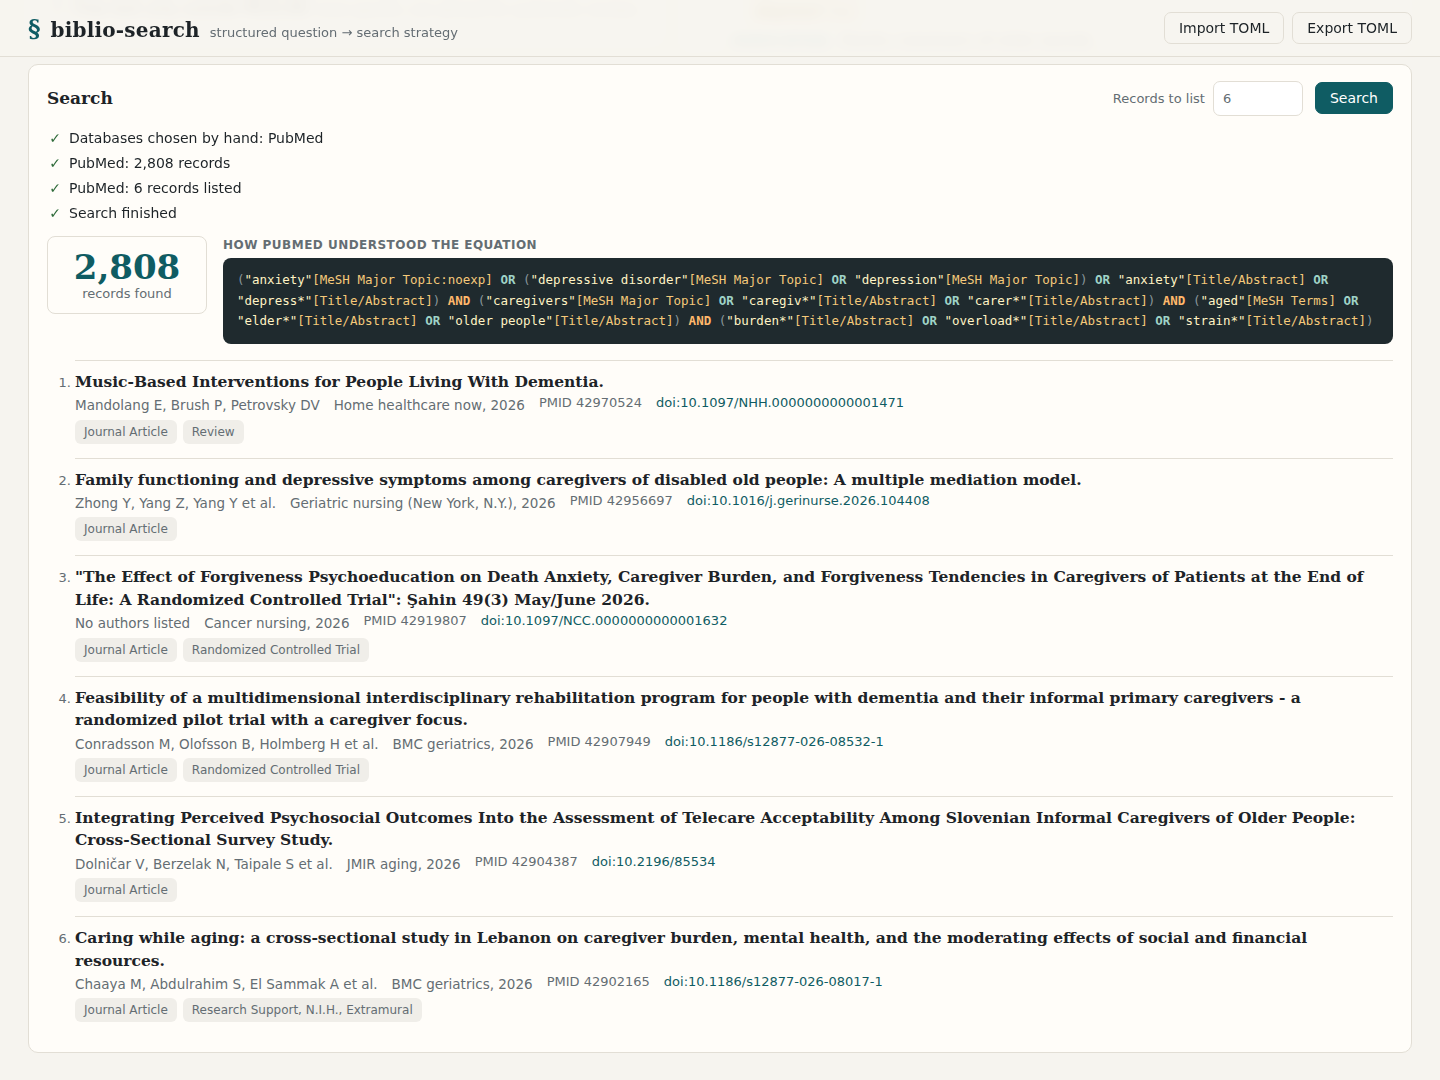
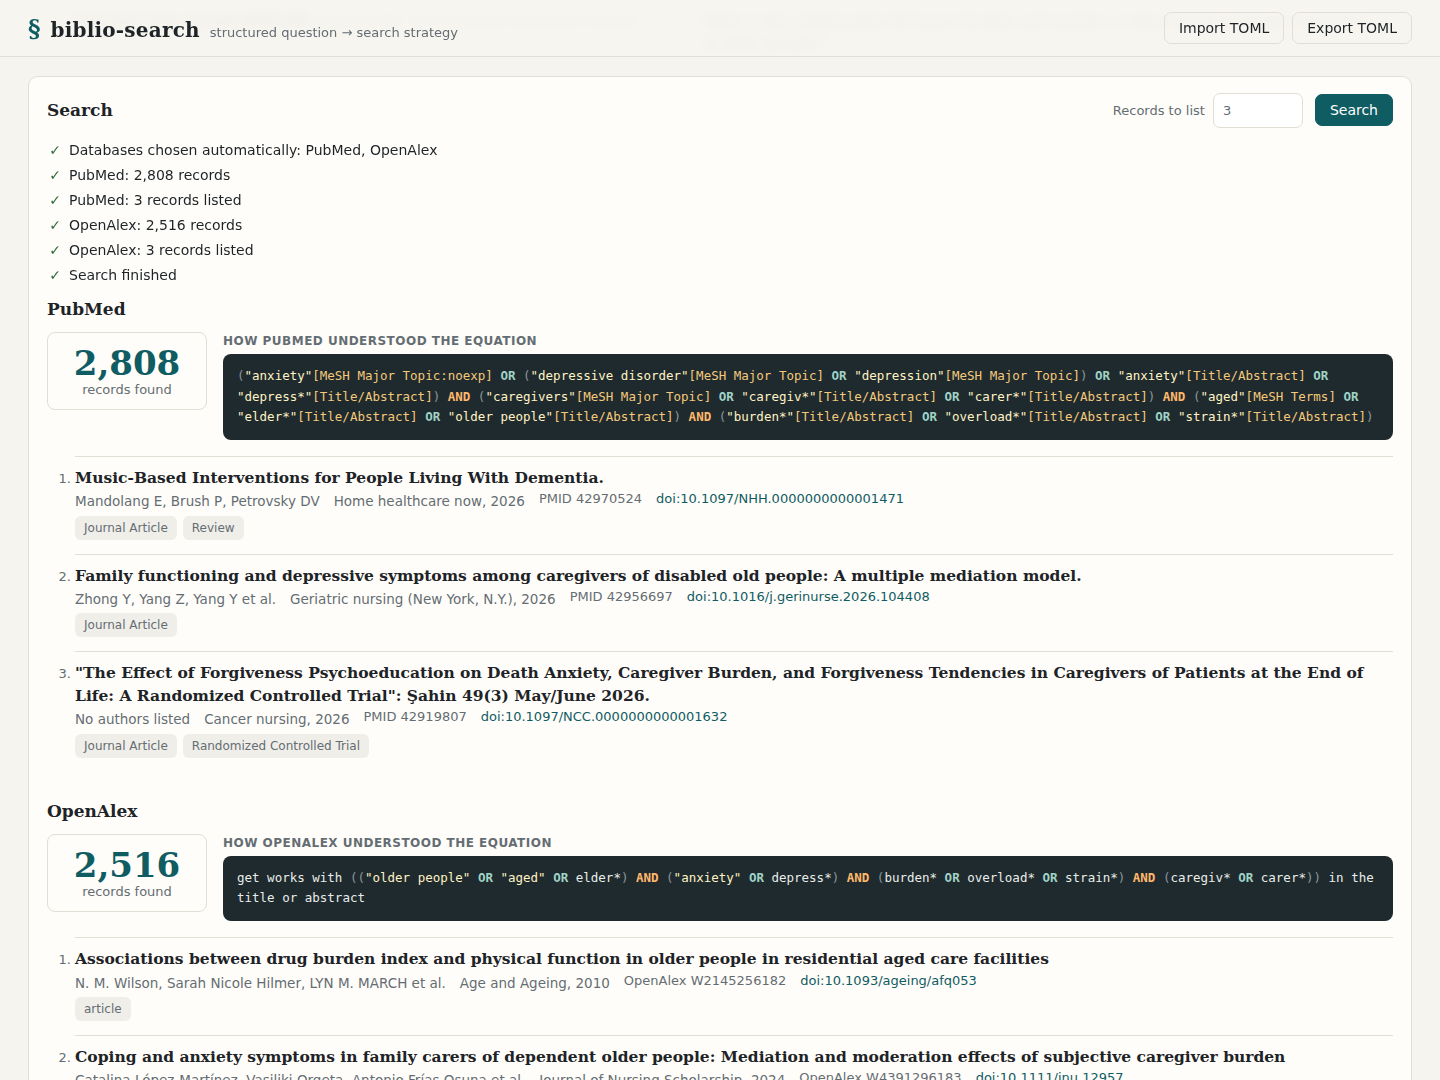
docs: openalex search, any-discipline description and new screenshots

Changed region(s): [[0.0312, 0.0611, 0.9688, 1.0], [0.7812, 0.0611, 0.875, 0.1222], [0.9062, 0.0611, 0.9688, 0.1222]]

diff --git a/src/biblio_search/__init__.py b/src/biblio_search/__init__.py
@@ -1,3 +1,3 @@
-"""biblio-search: structured clinical questions turned into PubMed search strategies."""
+"""biblio-search: research questions turned into search strategies for PubMed and OpenAlex."""
 
 __version__ = "0.5.0"

diff --git a/README.md b/README.md
@@ -1,8 +1,10 @@
 # biblio-search
 
-Turn a structured clinical question into a rigorous, reproducible PubMed search, and run it.
+Turn a research question from any discipline into a rigorous, reproducible search strategy,
+and run it in PubMed and OpenAlex.
 
-biblio-search models the bibliographic search method taught to health-science students:
+biblio-search models the bibliographic search method taught to health-science students, and
+extends it to any field:
 decompose the question, map every concept to controlled vocabulary and free text, tag each
 term with the right field, and assemble everything into a single boolean equation whose
 sensitivity and specificity you can tune on purpose instead of by trial and error.
@@ -11,7 +13,7 @@ Everything happens in a local web page: write the question, watch the equation, 
 grid and the chosen databases update as you type, check the headings against MeSH and run the
 search with live progress. The same features are available from the command line.
 
-![Writing a question: the PubMed equation, the MeSH check and Del Pino's logic grid update as you type](docs/screenshots/strategy.png)
+![Writing a question: the PubMed and OpenAlex equations and Del Pino's logic grid update as you type](docs/screenshots/strategy.png)
 
 ## What problem it solves
 
@@ -51,9 +53,10 @@ University of Jaén) in *"Cómo aprender (y enseñar) a realizar búsquedas en C
 7. **Tune sensitivity and specificity.** Repeat headings as free text to catch records not
    yet indexed, or limit free text to non-MEDLINE records with `NOT MEDLINE[sb]` for a more
    specific search.
-8. **Run it and read what the database understood.** biblio-search sends the equation to
-   PubMed through NCBI E-utilities and shows the record count, PubMed's own translation of
-   the query, any term it did not recognise and the first records to screen.
+8. **Run it and read what the database understood.** biblio-search sends each database its
+   own equation (PubMed through NCBI E-utilities, OpenAlex through its works API) and shows
+   the record count, the database's own reading of the query, any term it did not recognise
+   and the first records to screen.
 
 ## Engineering highlights
 
@@ -79,11 +82,24 @@ University of Jaén) in *"Cómo aprender (y enseñar) a realizar búsquedas en C
 - **Every heading knows its thesaurus.** Controlled terms carry their vocabulary (MeSH by
   default, ERIC). A database that does not index a vocabulary searches those headings as
   free text and says so, and each thesaurus only checks its own headings.
+- **OpenAlex searched as written.** OpenAlex stems its default search, which turns *carer*
+  into *care* and multiplies the results tenfold, and rejects wildcards there. biblio-search
+  uses its unstemmed title-and-abstract search instead, so terms mean what they mean in
+  PubMed's `[tiab]`, and writes truncated phrases (`family caregiv*`), which OpenAlex refuses
+  inside quotes, as zero-distance proximity (`"family caregiv*"~0`). OpenAlex indexes no
+  thesaurus, so headings become free text, and each database explains in a note anything it
+  had to search differently from how the question was written.
+- **Records are database-neutral.** A search returns ids and a second call fetches their
+  summaries, in the same order, for every database; each record keeps its own identifier
+  (PMID or OpenAlex work id) and link, so the CLI and the page list them side by side.
 - **A polite async client.** The E-utilities client is built on `httpx.AsyncClient`, spaces
   requests to NCBI's quota (3 per second, 10 with an API key), always identifies the tool,
   retries 429/5xx and network errors with backoff (honouring `Retry-After`, including NCBI's
-  rate-limit errors served with HTTP 200) and batches summary requests.
-- **Offline, deterministic tests.** Real NCBI responses are recorded as fixtures and an
+  rate-limit errors served with HTTP 200) and batches summary requests. The OpenAlex client
+  works the same way within OpenAlex's limits (1 request per second for long boolean queries
+  without a key, 5 with one), sends the optional key in a header rather than the URL, and
+  stops early with a clear message when the daily budget is spent instead of waiting hours.
+- **Offline, deterministic tests.** Real NCBI and OpenAlex responses are recorded as fixtures and an
   autouse guard makes any test that opens a socket fail.
 - **Dialects behind a protocol.** Query generation sits behind a small `QueryDialect`
   interface, so other databases can get their own syntax without touching the model.
@@ -96,7 +112,7 @@ University of Jaén) in *"Cómo aprender (y enseñar) a realizar búsquedas en C
   websites open in the same browser cannot drive it. All user text is rendered as text,
   never as HTML.
 - **Strict typing, few dependencies.** Frozen dataclasses and enums, `mypy --strict` on
-  sources and tests; beyond the standard library, `httpx` for NCBI and FastAPI with uvicorn
+  sources and tests; beyond the standard library, `httpx` for NCBI and OpenAlex, and FastAPI with uvicorn
   for the web interface. Question files are read with `tomllib` and written back by a small
   serializer of their own.
 
@@ -108,9 +124,11 @@ biblio-search/
 │   ├── models.py         # SPC/PICO/concepts question, conditions, terms, vocabularies
 │   ├── protocols.py      # QueryDialect and Thesaurus interfaces
 │   ├── pubmed_query.py   # PubMed field tags, quoting rules and equation assembly
+│   ├── openalex_query.py # OpenAlex equation: unstemmed title/abstract search, proximity
 │   ├── question_file.py  # TOML question files -> validated domain objects
 │   ├── ratelimit.py      # async requests-per-second limiter
 │   ├── eutils.py         # NCBI E-utilities client (esearch, esummary) and response parsing
+│   ├── openalex.py       # OpenAlex works client (search, summaries) and response parsing
 │   ├── mesh.py           # MeSH lookups through E-utilities (db=mesh)
 │   ├── check.py          # heading checks, synonym suggestions, unknown terms to free text
 │   ├── selection.py      # rule-based database choice with reasons, manual override
@@ -125,7 +143,7 @@ biblio-search/
 ├── examples/
 │   ├── caregiver-burden.toml       # worked example from Del Pino (2017)
 │   └── peer-tutoring-reading.toml  # education question with free concepts and ERIC terms
-└── tests/                # unit tests and recorded NCBI fixtures, no network access
+└── tests/                # unit tests and recorded NCBI/OpenAlex fixtures, no network access
 ```
 
 ## Installation
@@ -159,11 +177,12 @@ The page opens in your browser on a free port of `127.0.0.1` (`--port` to fix it
   the chosen databases with the reasons, and the question tree.
 - **Check the MeSH headings**: each one is confirmed, corrected or flagged, with suggested
   synonyms you can add with a click and a button that applies the corrections.
-- **Search** and follow each step live, then read PubMed's translation of the equation and
-  the first records, with links to PubMed and the DOI.
+- **Search** every chosen database and follow each step live. Each database gets its own
+  block: the record count, how it read its equation and the first records, with links to
+  PubMed or OpenAlex and to the DOI.
 - **Import and export** the question as a TOML file, the same format the CLI reads.
 
-![Live search: each step as it happens, the record count, how PubMed read the equation and the records to screen](docs/screenshots/search.png)
+![Live search in PubMed and OpenAlex: each step as it happens, the record counts, how each database read its equation and the records to screen](docs/screenshots/search.png)
 
 ### Question files and the command line
 
@@ -272,7 +291,7 @@ listed under `Not checked` and left exactly as written.
 ### Choosing the databases
 
 `databases` shows where a question will be searched, why, and the equation of every database
-biblio-search can already query:
+it can query:
 
 ```console
 $ biblio-search databases examples/caregiver-burden.toml
@@ -280,10 +299,13 @@ Databases (chosen automatically):
   PubMed
     - the question uses MeSH headings
     - SPC is a health-science question format
-  OpenAlex (biblio-search cannot search it yet)
+  OpenAlex
     - general multidisciplinary database, so nothing outside the specialised ones is missed
 
 PubMed equation: (Anxiety[mj:noexp] OR Depression[mj] OR anxiety[tiab] OR depress*[tiab]) AND (Caregivers[mj] OR caregiv*[tiab] OR carer*[tiab]) AND (Aged[mh] OR elder*[tiab] OR older people[tiab]) AND (burden*[tiab] OR overload*[tiab] OR strain*[tiab])
+
+OpenAlex equation: (anxiety OR depress*) AND (caregiv* OR carer*) AND (aged OR elder* OR "older people") AND (burden* OR overload* OR strain*)
+Note: OpenAlex does not index these headings, so they are searched as free text: Anxiety (MeSH), Depression (MeSH), Caregivers (MeSH), Aged (MeSH)
 ```
 
 The rules are deterministic, so the same question always gets the same databases:
@@ -310,17 +332,26 @@ biblio-search: PubMed does not index these headings, so they are searched as fre
 ```
 
 Descriptors already covered by a free term (`elementary school*` covers *Elementary School
-Students*) are not repeated.
+Students*) are not repeated. OpenAlex gets the same treatment, with phrases quoted and
+truncated phrases written as proximity:
 
-### Running the search in PubMed
+```console
+$ biblio-search build examples/peer-tutoring-reading.toml --dialect openalex
+("peer teaching" OR "peer tutor*"~0 OR "peer assisted learning" OR "cross age tutor*"~0) AND ("reading comprehension" OR "reading skill*"~0) AND ("primary school*"~0 OR "elementary school*"~0)
+biblio-search: OpenAlex does not index these headings, so they are searched as free text: Peer Teaching (ERIC), Reading Comprehension (ERIC), Elementary School Students (ERIC)
+```
 
-`search` builds the same equation, runs it through NCBI E-utilities and lists the first
-records (20 by default, up to 10,000). It searches PubMed when PubMed is among the chosen
-databases and names the chosen ones it cannot query yet:
+### Running the search
+
+`search` builds the equation of every chosen database it can query, runs them one after the
+other and lists the first records of each (20 by default, up to 10,000). Chosen databases it
+cannot query yet are named on the first line:
 
 ```console
 $ biblio-search search examples/caregiver-burden.toml --max 3
-Searching in: PubMed (also chosen, not searchable yet: OpenAlex)
+Searching in: PubMed, OpenAlex
+
+PubMed
 Equation: (Anxiety[mj:noexp] OR Depression[mj] OR anxiety[tiab] OR depress*[tiab]) AND (Caregivers[mj] OR caregiv*[tiab] OR carer*[tiab]) AND (Aged[mh] OR elder*[tiab] OR older people[tiab]) AND (burden*[tiab] OR overload*[tiab] OR strain*[tiab])
 PubMed understood: ("anxiety"[MeSH Major Topic:noexp] OR ("depressive disorder"[MeSH Major Topic] OR "depression"[MeSH Major Topic]) OR "anxiety"[Title/Abstract] OR "depress*"[Title/Abstract]) AND ("caregivers"[MeSH Major Topic] OR "caregiv*"[Title/Abstract] OR "carer*"[Title/Abstract]) AND ("aged"[MeSH Terms] OR "elder*"[Title/Abstract] OR "older people"[Title/Abstract]) AND ("burden*"[Title/Abstract] OR "overload*"[Title/Abstract] OR "strain*"[Title/Abstract])
 Results: 2808
@@ -328,11 +359,22 @@ Results: 2808
   1. PMID 42970524 (2026) Music-Based Interventions for People Living With Dementia. | Home healthcare now [Journal Article, Review]
   2. PMID 42956697 (2026) Family functioning and depressive symptoms among caregivers of disabled old people: A multiple mediation model. | Geriatric nursing (New York, N.Y.) [Journal Article]
   3. PMID 42919807 (2026) "The Effect of Forgiveness Psychoeducation on Death Anxiety, Caregiver Burden, and Forgiveness Tendencies in Caregivers of Patients at the End of Life: A Randomized Controlled Trial": Şahin 49(3) May/June 2026. | Cancer nursing [Journal Article, Randomized Controlled Trial]
+
+OpenAlex
+Equation: (anxiety OR depress*) AND (caregiv* OR carer*) AND (aged OR elder* OR "older people") AND (burden* OR overload* OR strain*)
+OpenAlex understood: get works with (("older people" OR "aged" OR elder*) AND ("anxiety" OR depress*) AND (burden* OR overload* OR strain*) AND (caregiv* OR carer*)) in the title or abstract
+Results: 2516
+
+  1. OpenAlex W2145256182 (2010) Associations between drug burden index and physical function in older people in residential aged care facilities | Age and Ageing [article]
+  2. OpenAlex W4391296183 (2024) Coping and anxiety symptoms in family carers of dependent older people: Mediation and moderation effects of subjective caregiver burden | Journal of Nursing Scholarship [article]
+  3. OpenAlex W1923367678 (2014) Suicide in Older People | Crisis [article]
 ```
 
-Counts change as PubMed grows. The translation line is worth reading: here PubMed expanded
-`Depression[mj]` to also cover *depressive disorder*. Unknown terms are listed as
-`Not found:` and anything PubMed ignored as `Warning:`.
+Counts change as the databases grow. The translation lines are worth reading: here PubMed
+expanded `Depression[mj]` to also cover *depressive disorder*, and OpenAlex confirms it
+searched title and abstract with truncation intact. Unknown terms are listed as
+`Not found:` and anything PubMed ignored as `Warning:`. Use `--database pubmed` or
+`--database openalex` to search only one of them.
 
 NCBI asks every tool to identify itself. biblio-search always sends `tool=biblio-search`;
 set a contact email and, optionally, a free
@@ -342,6 +384,15 @@ to 10 requests per second:
 ```bash
 export NCBI_EMAIL="you@example.org"   # or pass --email
 export NCBI_API_KEY="..."             # optional, read from the environment only
+```
+
+OpenAlex is free and needs no key, but every search draws from a daily budget: without a
+key it is a small one shared by everyone behind your IP address (enough for roughly a
+hundred searches a day). A free key from [openalex.org](https://openalex.org/settings/api)
+gives you your own, ten times larger:
+
+```bash
+export OPENALEX_API_KEY="..."         # optional, read from the environment only
 ```
 
 ### Question file reference
@@ -450,9 +501,13 @@ The test suite never touches the network: NCBI responses are recorded under
 - **`Not valid yet: ...` above the equation in the web interface**: the question is
   incomplete (for example a condition without terms or a component without a description).
   The message names the field; the last valid preview stays visible, dimmed.
-- **`none of the chosen databases can be searched yet`**: the question was routed to
-  databases biblio-search cannot query yet (an education question goes to ERIC and
-  OpenAlex). Add `--database pubmed` to search PubMed with the same equation.
+- **`none of the chosen databases can be searched yet`**: only databases biblio-search
+  cannot query yet were chosen (for example `--database eric`). Add `--database openalex` or
+  `--database pubmed` to search one that it can.
+- **`OpenAlex rejected the request (HTTP 400): ...`**: OpenAlex explains what it did not
+  accept; the usual cause is a truncated term with fewer than three letters before the `*`.
+- **`OpenAlex asks to wait ... the daily budget is probably spent`**: the keyless budget is
+  shared by your whole IP address. Wait until midnight UTC or set `OPENALEX_API_KEY`.
 - **`check` says a heading is `not found`**: MeSH matches headings and entry terms exactly,
   so plurals, abbreviations or Spanish terms are not found. Look the concept up in the
   [MeSH Browser](https://meshb.nlm.nih.gov/) or keep it as free text.

diff --git a/tests/fixtures/README.md b/tests/fixtures/README.md
@@ -11,3 +11,12 @@ MeSH database (`db=mesh`), recorded the same day:
   Caregivers, Aged, Carers (an entry term of Caregivers), "Aged, 80 and over" (a heading with
   commas), Nursing (a descriptor and a qualifier) and Qwzxvplorkt (`not_found`).
 - `mesh_esummary.json`: summaries of every uid returned by those searches.
+
+OpenAlex works API (`api.openalex.org/works`, no key), recorded on 2026-11-06:
+
+- `openalex_search_caregiver.json`: the OpenAlex equation of `examples/caregiver-burden.toml`
+  as `search.title_and_abstract.exact`, `select=id`, `per_page=100`, page 1.
+- `openalex_works_caregiver.json`: `filter=ids.openalex:` the first three of those works,
+  with the fields biblio-search reads.
+- `openalex_error_wildcard.json`: the HTTP 400 answer to a wildcard inside a quoted phrase
+  (`"family caregiv*"`).
